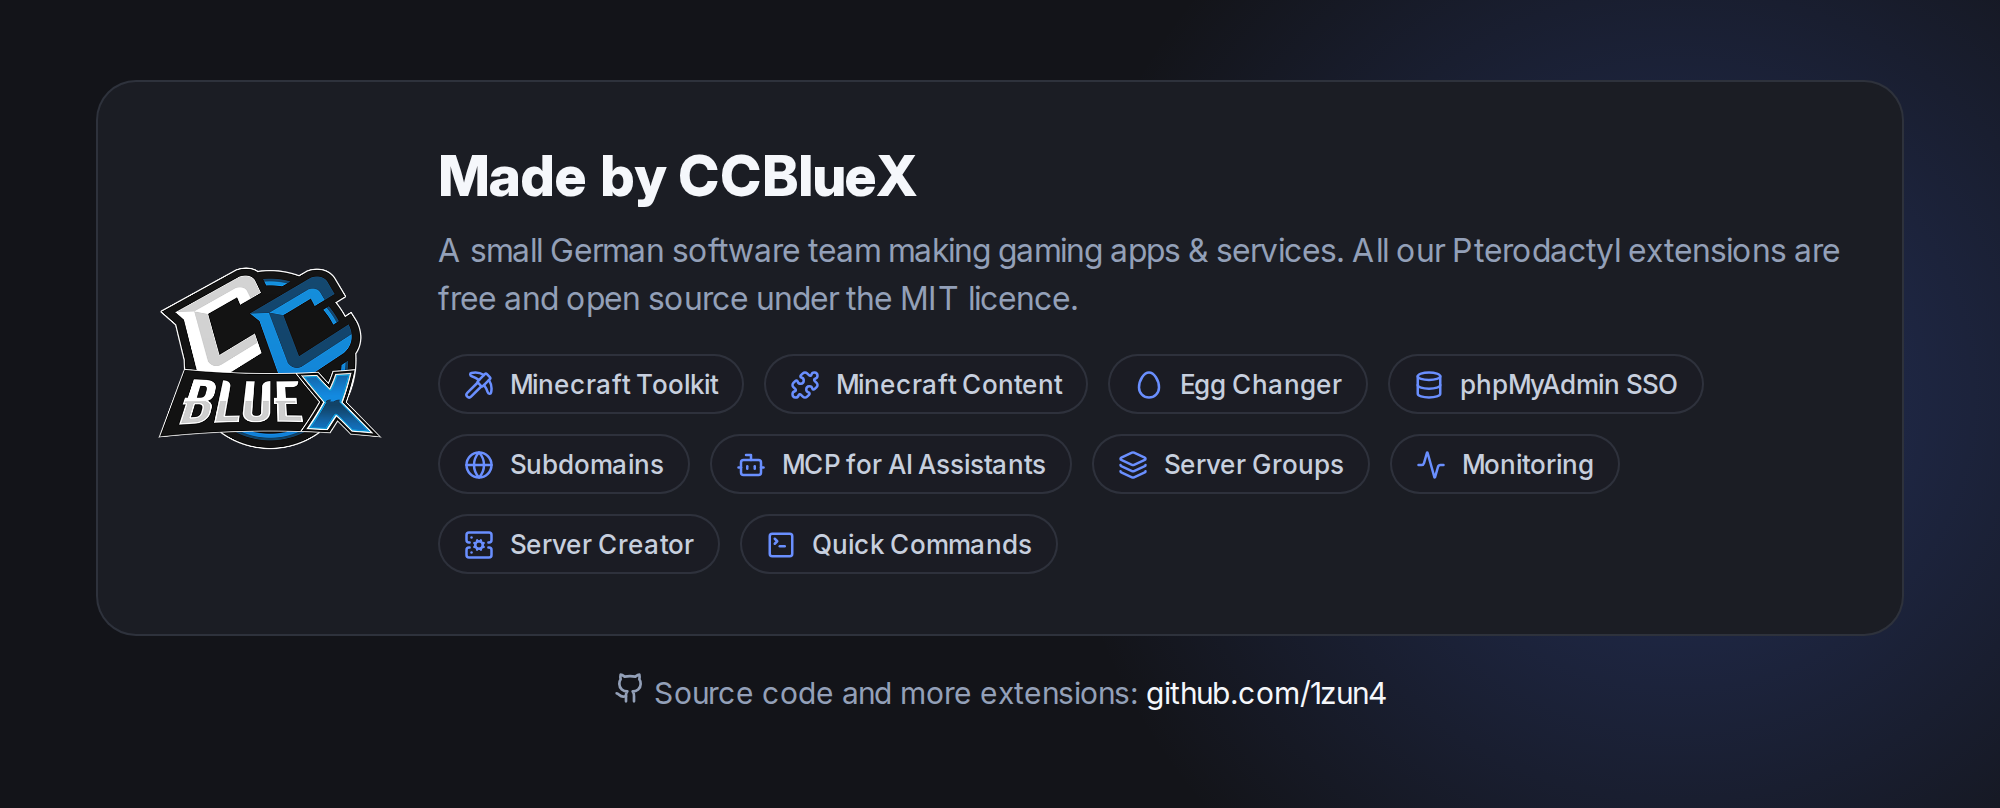
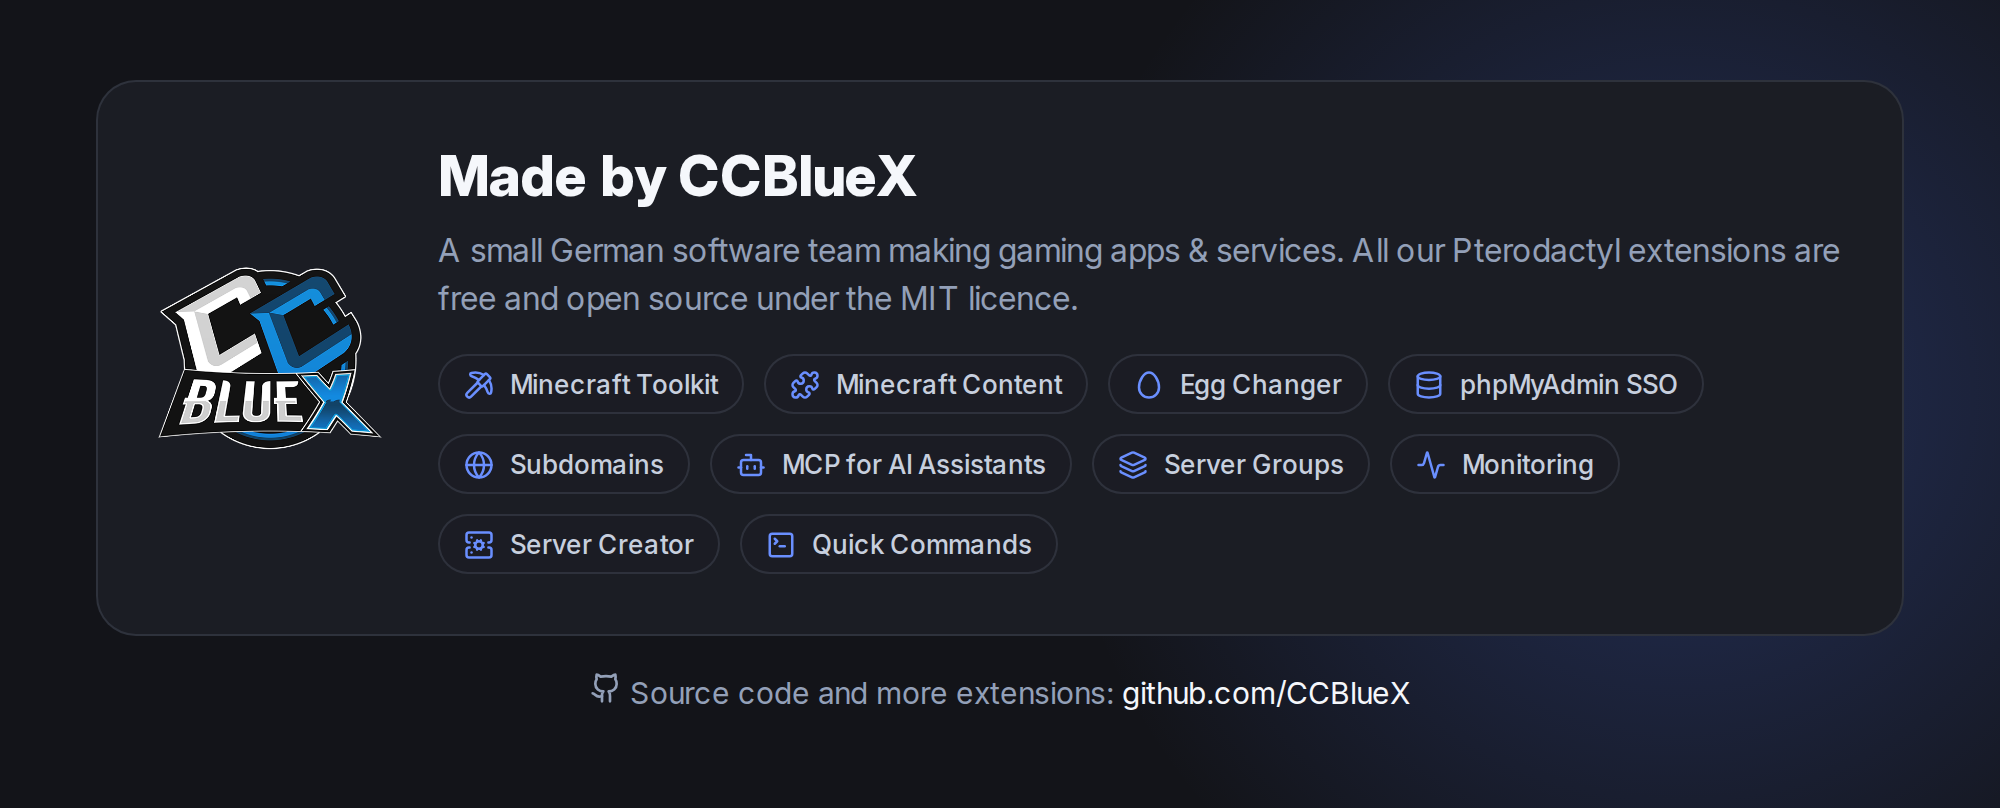
docs: move to ccbluex and hide node hostnames

Changed region(s): [[0.279, 0.8354, 0.713, 0.8973]]

diff --git a/README.md b/README.md
@@ -1,9 +1,9 @@
 # Trash Bin for Pterodactyl
 
-[![Release](https://img.shields.io/github/v/release/1zun4/Pterodactyl-Extension-Trash-Bin?style=flat-square)](https://github.com/1zun4/Pterodactyl-Extension-Trash-Bin/releases/latest)
-[![Downloads](https://img.shields.io/github/downloads/1zun4/Pterodactyl-Extension-Trash-Bin/total?style=flat-square)](https://github.com/1zun4/Pterodactyl-Extension-Trash-Bin/releases)
+[![Release](https://img.shields.io/github/v/release/CCBlueX/Pterodactyl-Extension-Trash-Bin?style=flat-square)](https://github.com/CCBlueX/Pterodactyl-Extension-Trash-Bin/releases/latest)
+[![Downloads](https://img.shields.io/github/downloads/CCBlueX/Pterodactyl-Extension-Trash-Bin/total?style=flat-square)](https://github.com/CCBlueX/Pterodactyl-Extension-Trash-Bin/releases)
 [![Pterodactyl](https://img.shields.io/badge/Pterodactyl-2.0-0e4688?style=flat-square)](https://pterodactyl.io)
-[![License](https://img.shields.io/github/license/1zun4/Pterodactyl-Extension-Trash-Bin?style=flat-square)](LICENSE)
+[![License](https://img.shields.io/github/license/CCBlueX/Pterodactyl-Extension-Trash-Bin?style=flat-square)](LICENSE)
 
 Files deleted in the file manager go to a trash first, so a wrong click can be undone. Works with every game.
 
@@ -11,7 +11,7 @@ Files deleted in the file manager go to a trash first, so a wrong click can be u
 
 ## Install
 
-1. Download `trash-bin-<version>.pteroext` from the [latest release](https://github.com/1zun4/Pterodactyl-Extension-Trash-Bin/releases/latest).
+1. Download `trash-bin-<version>.pteroext` from the [latest release](https://github.com/CCBlueX/Pterodactyl-Extension-Trash-Bin/releases/latest).
 2. Install and enable it under **Admin → Extensions**.
 3. Delete a file as usual, then open the server's **Trash** tab.
 
